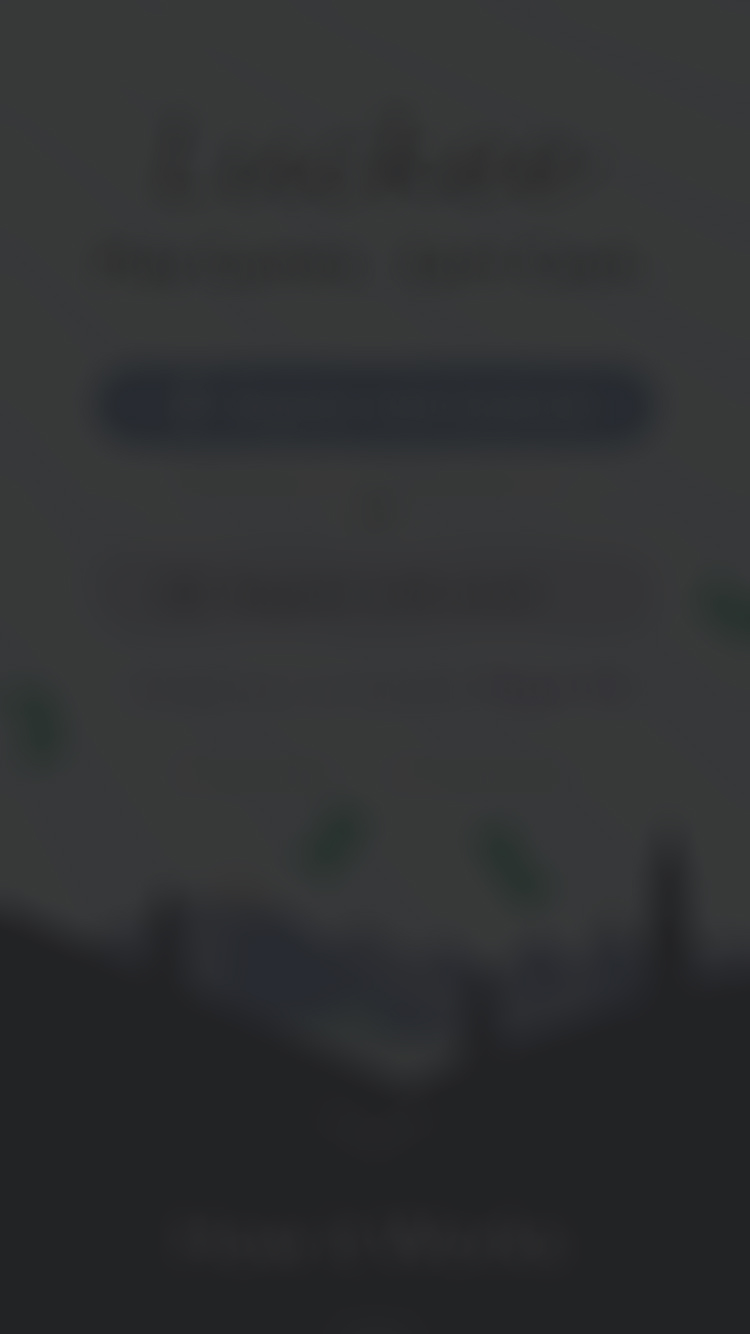
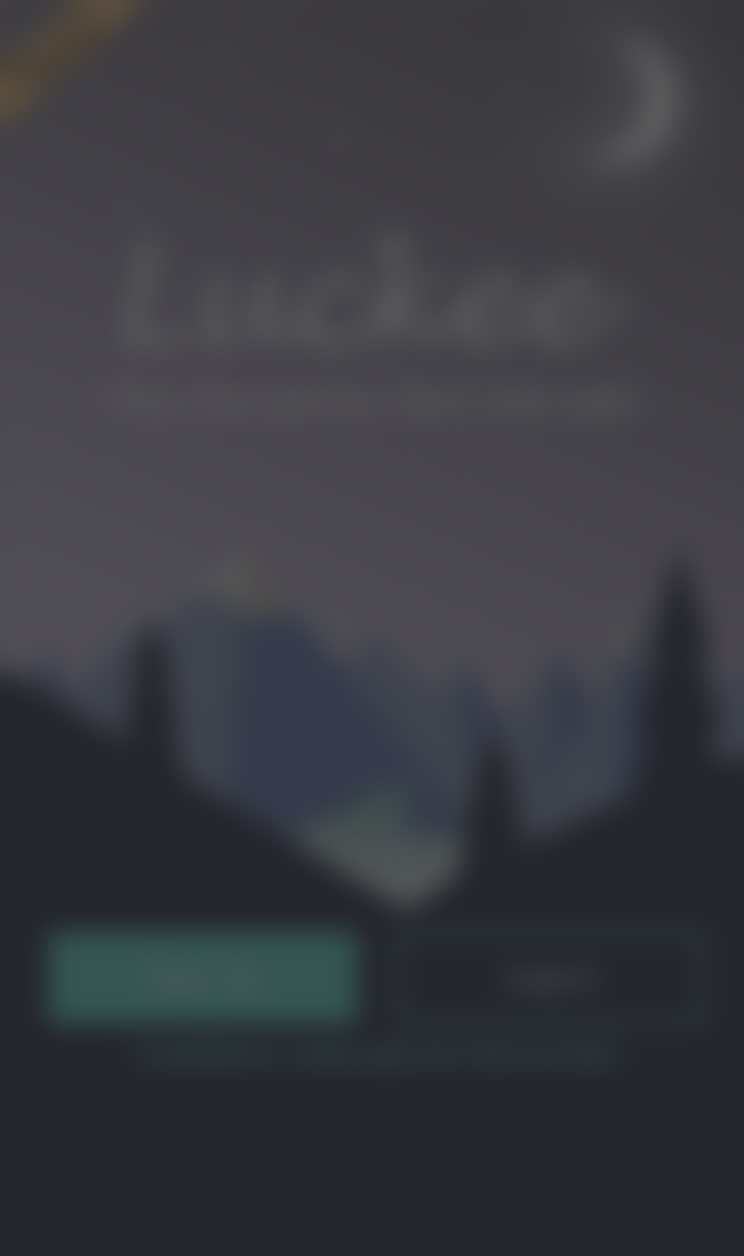
Added kd campaign add to homescreen overlay and temp custom home page

diff --git a/app/assets/stylesheets/custom_mobile.css.scss b/app/assets/stylesheets/custom_mobile.css.scss
@@ -594,6 +594,9 @@ textarea {
     margin-bottom: 0;
 
     &.disclaimer--us-only-home {
+        .kd-campaign & {
+            color: $kd-green-dark;
+        }
         color: $teal;
     }
 }
@@ -630,6 +633,19 @@ textarea {
         background-image: url('/assets/star_home_background.jpg');
         background-size: 100%;
         background-color: #bdb4d4;
+    }
+
+    &.kd-campaign {
+        .mobile-container {
+            background-image: none;
+            background-color: $kd-green;
+        }
+        .sign-up {
+            .welcome-box-m {
+                padding: 0 40px;
+                color: $kd-green-dark;
+            }
+        }
     }
 }
 .home-bottom{
@@ -1352,7 +1368,7 @@ p {
 @media (max-width: 768px) {
     .overlay-screen--rotate {
         .mobile--overlay {
-            background-image: url(/assets/rotate_screen_2.jpg)
+            background-color: $lavender !important;
         }
         .overlay__back-to-dash {
             display: inline-block;
@@ -1391,18 +1407,30 @@ p {
             width: 100%;
             height: 100vh;
             position: absolute;
-            background-color: rgba(117,117,117,0.5);
             background-position: center;
             background-size: cover;
             z-index: 100;
             text-align: center;
 
         }
+        &.kd-campaign {
+            .overlay__content {
+                color: $kd-green-dark;
+            }
+            .overlay__title {
+                color: $kd-green-dark;
+            }
+            .overlay__down-arrow {
+                color: $kd-green-dark;
+            }
+            .overlay__opt-out {
+                color: $white;
+            }
+        }
         .overlay__content {
             display: block;
             @include vertical-align();
             padding: 0 5%;
-            // padding: 20% 10px 25%;
             font-size: 16px;
             margin-top: -40px;
             &.hide {
@@ -1450,6 +1478,12 @@ p {
 }
 
 .add-to-home {
+    &.kd-campaign {
+        .mobile--overlay {
+            background-image: none;
+            background-color: $kd-green;
+        }
+    }
     .mobile--overlay {
         background-image: url(/assets/blur.jpg);
     }

diff --git a/vendor/assets/javascripts/jackhammer.js b/vendor/assets/javascripts/jackhammer.js
@@ -50,7 +50,7 @@ function animateIn()
 
     TweenMax.to(jackhammerSVG, 1, {delay:.2, opacity:1});
     TweenMax.from(jackhammer_title, 1, {alpha:0});
-    TweenMax.from(jackhammer_socialmedia, 1, {alpha:0});
+    // TweenMax.from(jackhammer_socialmedia, 1, {alpha:0}); //Uncomment for social media interaction
 
     var jackhammerCountdown = document.getElementById("svg_countdown");
 

diff --git a/app/assets/stylesheets/buttons.css.scss b/app/assets/stylesheets/buttons.css.scss
@@ -56,6 +56,12 @@ html body {
         margin: 20px 0;
         border-radius: 4px;
     }
+    &.kd-campaign {
+        .btn--homepage {
+            background-color: $kd-green-dark;
+            border: 2px solid $kd-green-dark;
+        }
+    }
     .btn--homepage {
         width: 40vw;
         background-color: $teal;

diff --git a/app/assets/stylesheets/variables.css.scss b/app/assets/stylesheets/variables.css.scss
@@ -45,6 +45,10 @@ $dark-gray: #26272b;
 $white: #fff;
 $off-white: #fbf8f4;
 
+// Special Palette
+$kd-green: #d4e7bf;
+$kd-green-dark: #638b18;
+
 //icons
 $icon-orange: #f6c273;
 $icon-purple: #9a95e5;

diff --git a/config/routes.rb b/config/routes.rb
@@ -1,5 +1,5 @@
 Alotto::Application.routes.draw do
- 
+
 
     root to: 'static_pages#home'
 
@@ -27,6 +27,7 @@ Alotto::Application.routes.draw do
     match '/update_username',  to: 'users#update_username',         via: 'patch'
 
     # Static Pages
+    match '/kd', to: 'static_pages#kd_home', via: 'get'
     match '/faq',    to: 'static_pages#faq',    via: 'get'
     match '/onboarding', to: 'static_pages#onboarding', via: 'get'
     match '/how_it_works', to: 'static_pages#how_it_works', via: 'get'
@@ -70,10 +71,10 @@ Alotto::Application.routes.draw do
     match '/get_advertiser_logo', to: 'games#get_advertiser_logo', via: 'get'
     match '/games', to: 'games#get_games', via: 'get'
     match '/unlock_game/:slug', to: 'games#purchase_confirm', as: 'unlock_game', via: 'get'
-    
+
     match '/us_only', to: 'static_pages#country', as: 'country', via: 'get'
     match '/closed_beta', to: 'static_pages#closed_beta', as: 'closed_beta', via: 'get'
-    
+
     match '/waitlist_user', to: 'static_pages#waitlist_user', via: 'post'
 
 

diff --git a/app/controllers/static_pages_controller.rb b/app/controllers/static_pages_controller.rb
@@ -40,6 +40,11 @@ class StaticPagesController < ApplicationController
     def closed_beta
     end
 
+    def kd_home
+
+    end
+
+
     def waitlist_user
         waitlist_user = WaitlistUser.new(waitlist_user_params)
         if !WaitlistUser.where(email:waitlist_user.email).present?
